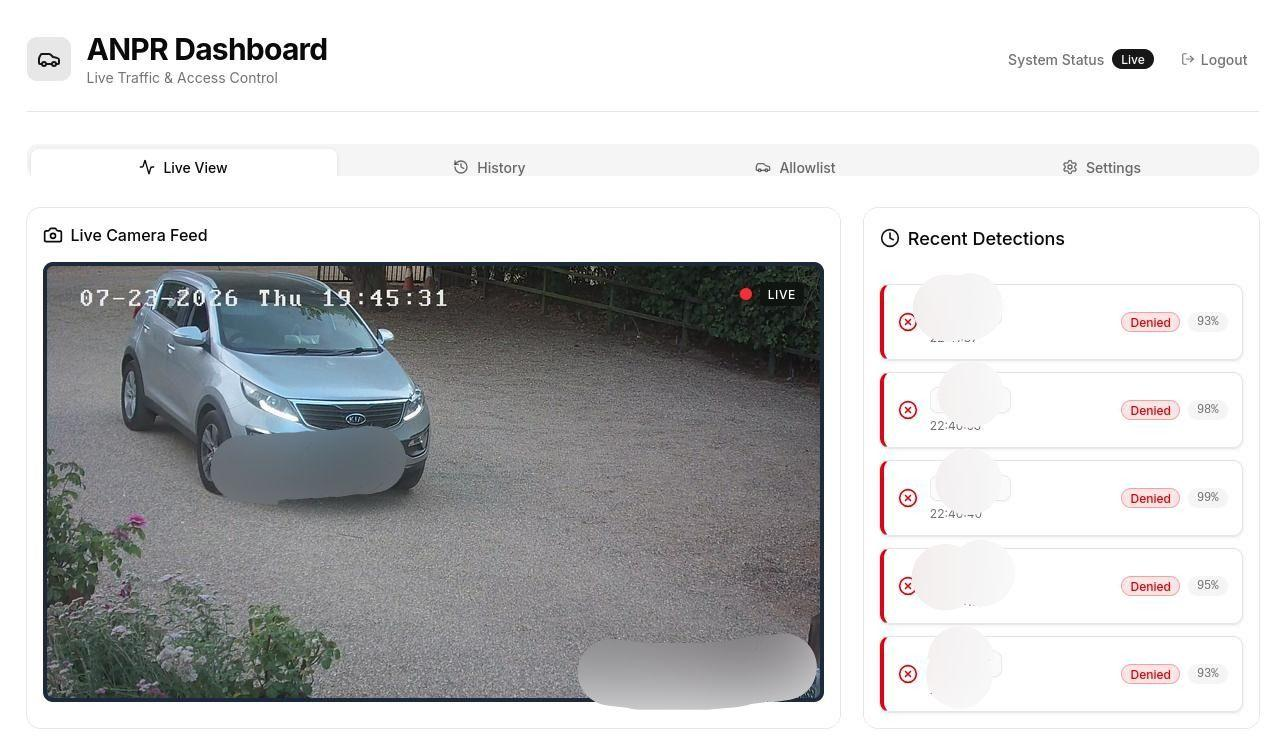
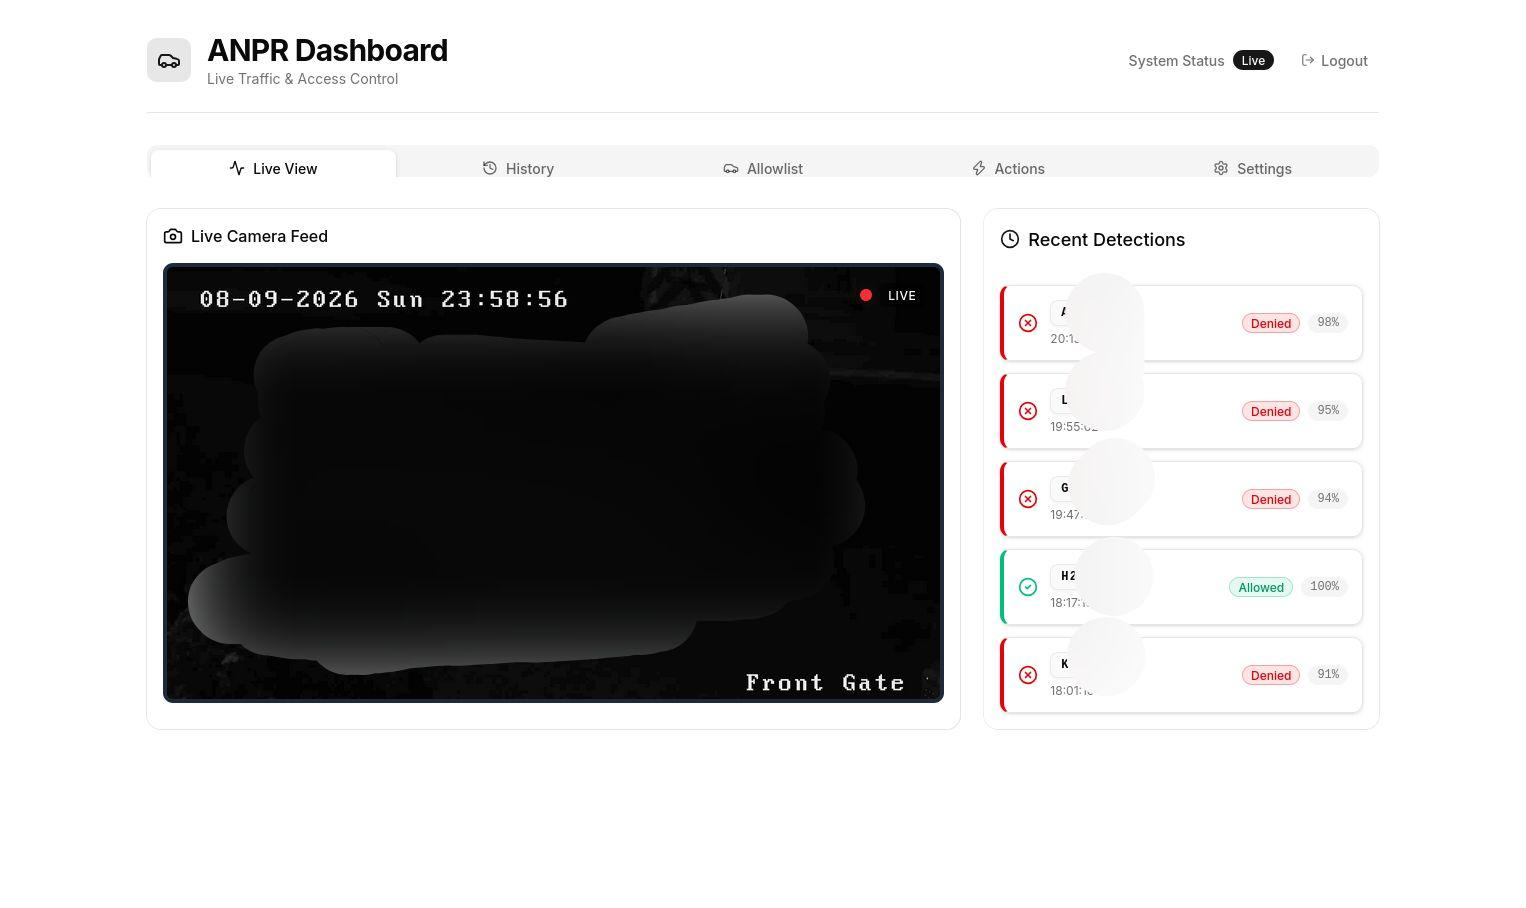
readme changes

diff --git a/README.md b/README.md
@@ -31,11 +31,6 @@ The inference pipeline leverages **ONNX Runtime (ort)** accelerated by **Intel O
     <b>Settings</b><br>
     <img src="https://github.com/ar00n/alpr-rust/blob/main/demo_pictures/settings.png" width="800" alt="Settings">
   </p>
-
-  <p align="center">
-    <b>Settings 2</b><br>
-    <img src="https://github.com/ar00n/alpr-rust/blob/main/demo_pictures/settings2.png" width="800" alt="Settings 2">
-  </p>
 </details>
 
 ---
